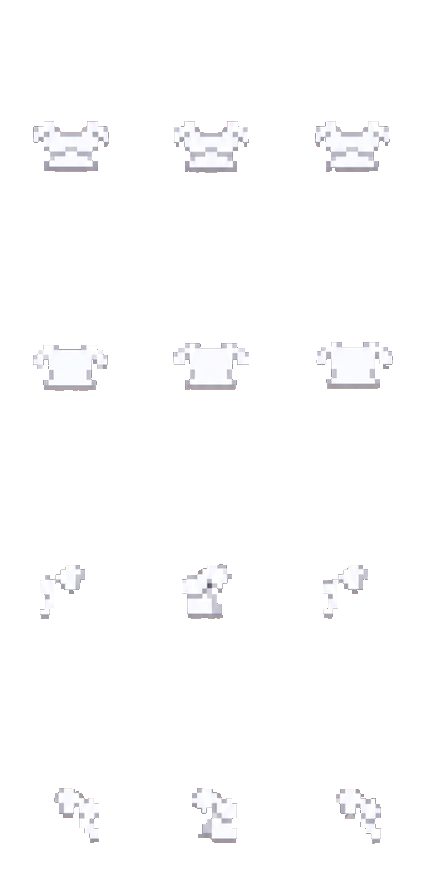
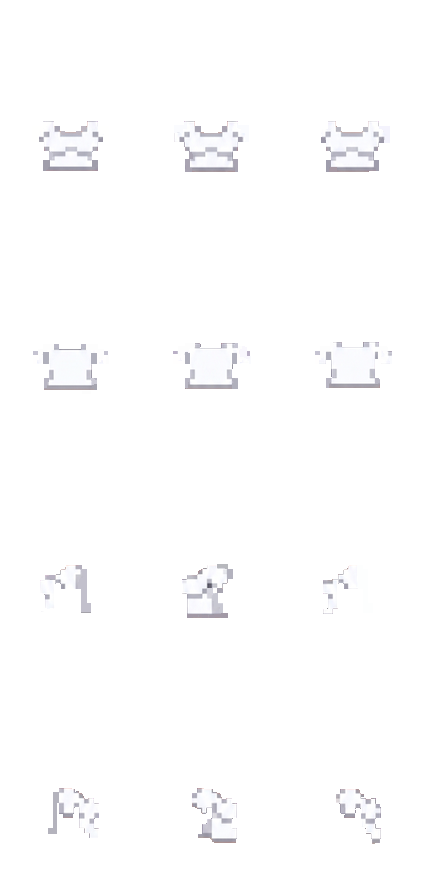
fix(tee): 여캐 흰티 우측 걸음2 제미나이 워터마크 제거(도너 이식) + 대표 리터치본 반영

diff --git a/index.html b/index.html
@@ -2104,7 +2104,7 @@ window.CHAR_ITEMS = [
   // { id: 'hat_f_ladodgers', slot: 'hat', body: 'human_f', name: 'LA 볼캡', price: 0, sheet: 'char/items/hat_f_ladodgers.png', thumb: 'char/items/hat_ladodgers_thumb.png', hairVariants: { hair_f_basic: null, hair_f_bob_bang: null, hair_f_long: null } }
 ];
 // 아이템 이미지 캐시버전 — 아이템 시트/썸네일 바꿀 때마다 올리면 SW 캐시 무시하고 새로 받음
-window._ITEM_V = 105;
+window._ITEM_V = 106;
 window._iv = function (u) { return u ? (u + (u.indexOf('?') < 0 ? '?v=' : '&v=') + (window._ITEM_V || 1)) : u; };
 window.CHAR_FREE = ['hair_short', 'top_tee', 'mask_simple'];
 window.CHAR_SHAPES = {
@@ -7667,7 +7667,7 @@ document.getElementById('create-crew-panel').querySelector('.back-btn').addEvent
 
 // ===== 서비스 워커 등록 (PWA 홈화면 설치) =====
 // ★배포할 때 sw.js 의 murpy-vNNN 과 **같은 숫자로** 올릴 것. 이게 CDN 캐시를 깬다.
-window._SW_V = '346';
+window._SW_V = '347';
 // 마이페이지 하단 앱 정보에 현재 버전 표시
 try {
   window.addEventListener('load', function () {

diff --git a/sw.js b/sw.js
@@ -1,7 +1,7 @@
 // 배포마다 이 버전을 올려야 자동 새버전 적용(새로고침)이 동작함
-const CACHE_NAME = 'murpy-v346';
-const STATIC_CACHE = 'murpy-static-v346';
-const CDN_CACHE = 'murpy-cdn-v346';
+const CACHE_NAME = 'murpy-v347';
+const STATIC_CACHE = 'murpy-static-v347';
+const CDN_CACHE = 'murpy-cdn-v347';
 // 이미지 캐시는 버전 안 붙임 → 코드/HTML 배포해도 유지(URL이 곧 버전)
 const IMG_CACHE = 'murpy-img';
 

diff --git a/char/fix_tee_watermark.py b/char/fix_tee_watermark.py
@@ -1,0 +1,149 @@
+# -*- coding: utf-8 -*-
+"""여캐 기본흰티 '우측 걸음2' 프레임의 제미나이 워터마크(✦)를 지운다.
+
+remove_gemini_watermark.py 는 시트 1408x3008 을 전제로 좌표가 하드코딩돼 있는데
+이 시트는 1408x2986 이라 그대로 못 쓴다. 그래서 **위치를 실측으로 찾는다.**
+
+방식은 같다 — 없는 픽셀을 지어내지 않고 **같은 행의 다른 프레임에서 이식**한다.
+✦ 는 반투명 흰색이라 흰티 추출 필터(무채색+밝음)를 그대로 통과해 옷으로 잡힌다.
+(반바지는 어두운 것만 골라서 안 걸렸다 — 그래서 반바지에선 이 문제가 없었다)
+
+    python char/fix_tee_watermark.py            # 찾기만
+    python char/fix_tee_watermark.py --apply    # 원본 정리본 저장
+"""
+from __future__ import annotations
+
+import argparse
+import sys
+from pathlib import Path
+
+import numpy as np
+from PIL import Image
+from scipy import ndimage
+
+if hasattr(sys.stdout, "reconfigure"):
+    sys.stdout.reconfigure(encoding="utf-8", errors="replace")
+
+SRC = Path(r"C:\Users\allys\Desktop\머피브랜딩\머피월드 캐릭터\커스터마이징 3차\상의\여캐\여자 기본흰티.png")
+OUT = SRC.with_name("여자 기본흰티_워터마크제거.png")
+TARGET = (3, 2)        # 우측 행, 걸음2
+DONORS = [(3, 0), (3, 1)]
+SEARCH = 14            # 도너 정합 탐색 반경(px)
+PAD = 10               # 이식 영역 여유
+# ✦ 가 있는 몸통 구간 (셀 크기 대비 비율). 눈으로 확인한 위치를 근거로 잡았다.
+ROI_Y0, ROI_Y1 = 0.55, 0.82
+ROI_X0, ROI_X1 = 0.30, 0.72
+
+
+def cells(a):
+    h, w = a.shape[0] // 4, a.shape[1] // 3
+    return h, w
+
+
+def find_wm(a):
+    """워터마크 후보 = 도너 프레임과 **크게 다른** 덩어리.
+
+    ★'밝은 무채색'으로 찾으면 못 잡는다. ✦ 는 반투명이라 살색 위에서는 '밝은 살색'이
+      되어 무채색 조건에 안 걸린다(실제로 그렇게 놓쳤다). 도너 차분이 맞다.
+    ★그리고 ✦ 는 **부드러운 그라데이션**이라 하드 픽셀아트 사이에서 튄다 —
+      경계가 뭉개진 것도 같이 본다.
+    """
+    h, w = cells(a)
+    tr, tc = TARGET
+    t = a[tr * h:(tr + 1) * h, tc * w:(tc + 1) * w, :3].astype(int)
+    best = None
+    for dr, dc in DONORS:
+        d = a[dr * h:(dr + 1) * h, dc * w:(dc + 1) * w, :3].astype(int)
+        for dy in range(-SEARCH, SEARCH + 1, 2):
+            for dx in range(-SEARCH, SEARCH + 1, 2):
+                s = np.roll(np.roll(d, dy, axis=0), dx, axis=1)
+                diff = np.abs(s - t).sum(axis=2)
+                score = float(np.median(diff))
+                if best is None or score < best[0]:
+                    best = (score, diff, dr, dc, dy, dx)
+    med, diff, dr, dc, dy, dx = best
+    print(f"  기준 도너 r{dr}c{dc} offset({dx:+d},{dy:+d})  중앙값차 {med:.0f}")
+    # ★다리는 프레임마다 위치가 달라 통째로 '차이'로 잡힌다(실제로 270×172 가 잡혔다).
+    #   ✦ 는 상반신에 있으므로 몸통 띠로 좁힌다. 아래 상수는 셀 높이 비율.
+    roi = np.zeros(diff.shape, bool)
+    roi[int(h * ROI_Y0):int(h * ROI_Y1), int(w * ROI_X0):int(w * ROI_X1)] = True
+    diff = np.where(roi, diff, 0)
+    m = ndimage.binary_opening(diff > 90, np.ones((3, 3), bool))
+    lab, n = ndimage.label(m, np.ones((3, 3), bool))
+    if not n:
+        return None
+    sizes = ndimage.sum(m, lab, range(1, n + 1))
+    i = int(np.argmax(sizes)) + 1
+    ys, xs = np.nonzero(lab == i)
+    return int(sizes[i - 1]), xs.min(), xs.max(), ys.min(), ys.max()
+
+
+def main() -> int:
+    ap = argparse.ArgumentParser()
+    ap.add_argument("--apply", action="store_true")
+    # ★자동 검출은 ✦ 의 **진한 부분만** 잡는다(반투명이라 옅은 데는 차이가 작다).
+    #   눈으로 잰 상자를 직접 넘길 수 있게 둔다 — 이 경우가 더 정확하다.
+    ap.add_argument("--box", help="셀 안 좌표 x0,x1,y0,y1")
+    args = ap.parse_args()
+
+    a = np.asarray(Image.open(SRC).convert("RGBA")).astype(np.uint8)
+    h, w = cells(a)
+    print(f"시트 {a.shape[1]}×{a.shape[0]}  셀 {w}×{h}")
+
+    if args.box:
+        x0, x1, y0, y1 = (int(v) for v in args.box.split(","))
+        npx = (x1 - x0 + 1) * (y1 - y0 + 1)
+        print("  상자 직접 지정")
+    else:
+        got = find_wm(a)
+        if not got:
+            print("워터마크 후보를 못 찾았다")
+            return 1
+        npx, x0, x1, y0, y1 = got
+    print(f"워터마크 후보  {npx}px  셀내 x{x0}~{x1} y{y0}~{y1}  "
+          f"(크기 {x1-x0+1}×{y1-y0+1})")
+
+    if not args.apply:
+        print("\n--apply 를 붙이면 도너 이식 후 저장한다")
+        return 0
+
+    tr, tc = TARGET
+    ox, oy = tc * w, tr * h
+    bx0, bx1 = max(0, x0 - PAD), min(w - 1, x1 + PAD)
+    by0, by1 = max(0, y0 - PAD), min(h - 1, y1 + PAD)
+
+    target = a[oy + by0:oy + by1 + 1, ox + bx0:ox + bx1 + 1, :3].astype(int)
+    # 이식할 자리(워터마크)와 정합 품질을 잴 테두리
+    inner = np.zeros(target.shape[:2], bool)
+    inner[y0 - by0:y1 - by0 + 1, x0 - bx0:x1 - bx0 + 1] = True
+    ring = ~inner
+
+    best = None
+    for dr, dc in DONORS:
+        dox, doy = dc * w, dr * h
+        for dy in range(-SEARCH, SEARCH + 1):
+            for dx in range(-SEARCH, SEARCH + 1):
+                sy, sx = doy + by0 + dy, dox + bx0 + dx
+                if sy < 0 or sx < 0 or sy + target.shape[0] > a.shape[0] or sx + target.shape[1] > a.shape[1]:
+                    continue
+                cand = a[sy:sy + target.shape[0], sx:sx + target.shape[1], :3].astype(int)
+                mae = float(np.abs(cand[ring] - target[ring]).mean())
+                if best is None or mae < best[0]:
+                    best = (mae, dr, dc, dy, dx, sy, sx)
+    mae, dr, dc, dy, dx, sy, sx = best
+    print(f"도너 r{dr}c{dc}  offset({dx:+d},{dy:+d})  테두리 MAE {mae:.1f}")
+    if mae > 22:
+        print("!! 테두리가 안 맞는다 — 믿을 만한 도너가 없다. 중단")
+        return 1
+
+    out = a.copy()
+    patch = a[sy:sy + target.shape[0], sx:sx + target.shape[1]]
+    dst = out[oy + by0:oy + by1 + 1, ox + bx0:ox + bx1 + 1]
+    dst[inner] = patch[inner]
+    Image.fromarray(out, "RGBA").save(OUT)
+    print(f"-> {OUT}")
+    return 0
+
+
+if __name__ == "__main__":
+    sys.exit(main())
